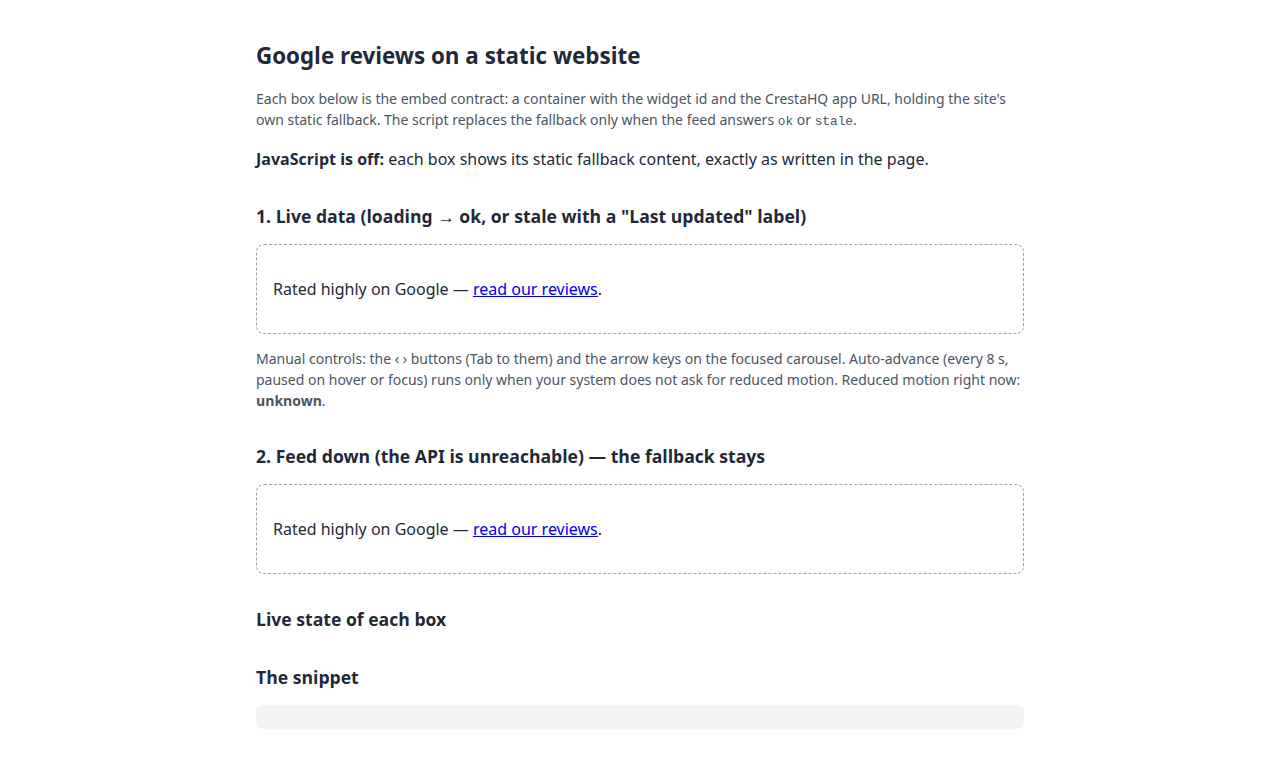
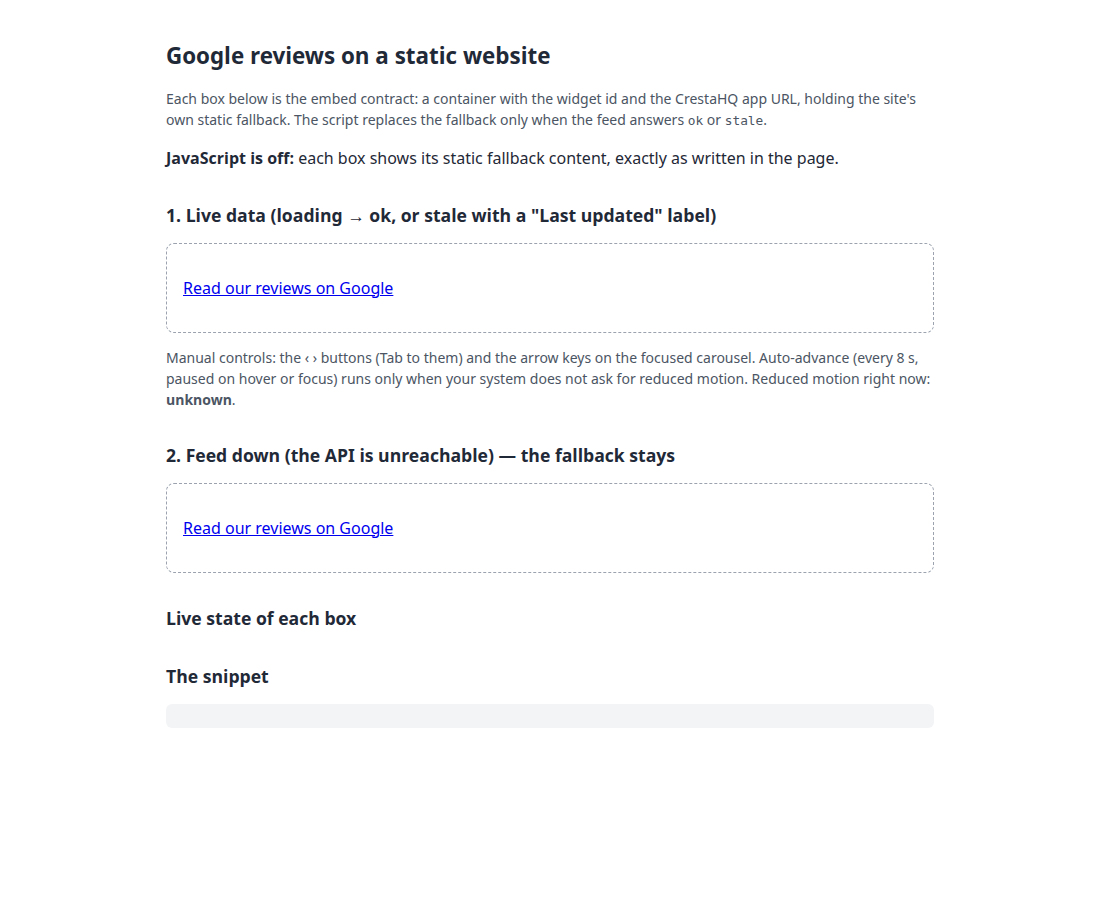
docs(gbp): fix-round contract, E2E 4 real-server cache checks, GIF proof
Docs: 60s cache and what acts at once (server) vs within a minute
(caches); the id-shape-first 404, the two-bucket limiter and its client
key; the scan memo; weak ETags and *; archived = disabled; anonymous
reviewers get no photo; writeReviewUri is Google's link and carries the
Place ID in its query; no-Origin requests get the full body (the allow-list
is browser-level); the WCAG 2.2.2 motion rules; the header-only state;
containers added after load keep their fallback; neutral fallback copy.

E2E 4 asserts Cache-Control, Vary and a 304 with the current ETag against
the real server, awaits the edited review past the 60s memo, and renders the
embed under reduced motion.

Proof: one GIF per browser flow plus refreshed screenshots, fixture data
only; the pre-fix devtools screenshot and the old flow-2 image are removed.

diff --git a/e2e/specs/gbp-public-feed.spec.ts b/e2e/specs/gbp-public-feed.spec.ts
@@ -24,6 +24,8 @@ import {
 test.skip(!!process.env.PLAYWRIGHT_BASE_URL, "needs GBP_PROVIDER=fake, which a deployed target refuses by design");
 
 gbpLifecycle(test);
+// The edited review is awaited past the feed's 60s review-scan memo.
+test.setTimeout(240_000);
 
 const VELO = "https://www.velocityfibre.co.za";
 const APP = "http://127.0.0.1:3100";
@@ -71,6 +73,12 @@ test("the public feed serves an allowed site, refuses others, leaks nothing and 
   expect(ok.headers()["access-control-allow-origin"]).toBe(VELO);
   // Next adds its own Vary values; ours must be among them.
   expect(ok.headers()["vary"].split(",").map((v) => v.trim())).toContain("Origin");
+  expect(ok.headers()["cache-control"]).toBe("public, max-age=60");
+  // A conditional request with the current ETag is a 304 from the real server, CORS intact.
+  const notModified = await request.get(feedPath(meta.publicId), { headers: { Origin: VELO, "If-None-Match": ok.headers()["etag"] } });
+  expect(notModified.status()).toBe(304);
+  expect(notModified.headers()["access-control-allow-origin"]).toBe(VELO);
+  expect(notModified.headers()["etag"]).toBe(ok.headers()["etag"]);
   const body = await ok.json();
   expect(body).toMatchObject({
     version: 1,
@@ -95,7 +103,8 @@ test("the public feed serves an allowed site, refuses others, leaks nothing and 
     expect(text, marker).not.toContain(marker);
   }
 
-  // --- A review edited at Google reaches the feed after a sync: new body, new ETag.
+  // --- A review edited at Google reaches the feed after a sync — within the
+  // feed's 60s review-scan memo — with a new ETag.
   const etag = ok.headers()["etag"];
   const edited = publicScenario();
   Object.assign(edited.reviews["locations/e2e-velo-gqeberha"].reviews[0], {
@@ -104,15 +113,19 @@ test("the public feed serves an allowed site, refuses others, leaks nothing and 
   });
   await setScenario(edited);
   await runCron(request);
+  await expect
+    .poll(async () => (await (await request.get(feedPath(meta.publicId))).json()).reviews[0].text, { timeout: 90_000, intervals: [5_000] })
+    .toBe("Fixture review: edited at Google after the first sync.");
   const after = await request.get(feedPath(meta.publicId), { headers: { Origin: VELO, "If-None-Match": etag } });
   expect(after.status()).toBe(200);
   expect(after.headers()["etag"]).not.toBe(etag);
-  expect((await after.json()).reviews[0].text).toBe("Fixture review: edited at Google after the first sync.");
 
   // --- The embed script, on a page of an allowed origin, renders the live data.
   sitePage =
     `<!doctype html><title>site</title><div id="w" data-crestahq-reviews="${meta.publicId}" data-api="${APP}"><p id="fallback">Rated on Google</p></div>` +
     `<script src="${APP}/embed/gbp-reviews.js" defer></script>`;
+  // Reduced motion, so auto-advance cannot move the carousel under the assertions.
+  await page.emulateMedia({ reducedMotion: "reduce" });
   await page.goto(`${EXAMPLE}/`);
   const widget = page.locator("#w");
   await expect(widget).toHaveAttribute("data-state", "ok", { timeout: 30_000 });

diff --git a/docs/features/gbp-reviews/example/index.html b/docs/features/gbp-reviews/example/index.html
@@ -36,7 +36,7 @@
   <div class="demo">
     <div id="live" data-crestahq-reviews="" data-api="http://127.0.0.1:3100">
       <!-- Static fallback: shown as-is with JavaScript off or when the feed is unavailable. -->
-      <p>Rated highly on Google — <a href="https://www.google.com/maps">read our reviews</a>.</p>
+      <p><a href="https://www.google.com/maps">Read our reviews on Google</a></p>
     </div>
   </div>
   <p class="note">
@@ -48,7 +48,7 @@
   <h2>2. Feed down (the API is unreachable) — the fallback stays</h2>
   <div class="demo">
     <div id="down" data-crestahq-reviews="" data-api="http://127.0.0.1:4409">
-      <p>Rated highly on Google — <a href="https://www.google.com/maps">read our reviews</a>.</p>
+      <p><a href="https://www.google.com/maps">Read our reviews on Google</a></p>
     </div>
   </div>
 
@@ -75,7 +75,7 @@
       document.getElementById("snippet").textContent =
         '<div data-crestahq-reviews="' + (id || "PUBLIC_ID") + '" data-api="' + api + '">\n' +
         "  <!-- static fallback -->\n" +
-        '  <p>Rated highly on Google — <a href="https://www.google.com/maps">read our reviews</a>.</p>\n' +
+        '  <p><a href="https://www.google.com/maps">Read our reviews on Google</a></p>\n' +
         "</div>\n" +
         '<script src="' + api + '/embed/gbp-reviews.js" defer></' + "script>";
 

diff --git a/docs/features/gbp-reviews.md b/docs/features/gbp-reviews.md
@@ -561,7 +561,8 @@ served like `/widget.js` (`next.config.ts`).
   `allowedOrigins`, `maxReviews`; anything else — `minRating` included — is a
   400 `invalid_body`, never silently ignored.
 - **Rotate** (`POST …/gbp/widget/rotate`) issues a new id with the same
-  config and deletes the old doc — the old id 404s at once. **Revoke**
+  config and deletes the old doc — the old id 404s on the server at once
+  (a cached copy may live up to a minute, see below). **Revoke**
   (`DELETE …/gbp/widget`) deletes the doc and clears the meta; it stays
   **ungated**, like disconnect, so a widget can always be taken down.
 - **Disconnect and listing clears** leave the widget config alone and the feed
@@ -569,7 +570,15 @@ served like `/widget.js` (`next.config.ts`).
   `unavailable` with `listing: null`, and resumes by itself once a listing is
   selected and synced again. (The widget belongs to the sub-account, so a
   newly selected listing is what it then shows.)
-- **Agency gate off** makes the feed answer the same 404 as a disabled widget.
+- **Agency gate off**, or an **archived** sub-account, makes the feed answer
+  the same 404 as a disabled widget.
+- **How fast changes land:** the widget doc and the sub-account are read on
+  every feed request, so revoke, rotate, disable, gate off and an origin
+  removal act on the server at once; only the review scan is memoised (60 s
+  per widget + listing, in memory). With `Cache-Control: public, max-age=60`
+  a browser or proxy may keep a copy for up to a minute — so config changes
+  and new syncs reach visitors within about a minute (the dashboard card says
+  so).
 
 ### Feed contract v1 — `GET /api/public/gbp/feed/{publicId}`
 
@@ -579,17 +588,23 @@ caller can send its own. Order: rate limit → resolve → origin → body.
 
 | Status | When | Body | Headers |
 |---|---|---|---|
-| 429 | more than 120 requests a minute for this IP + publicId (in-memory, per instance) | `{"error":"rate_limited"}` | `Retry-After`, `Cache-Control: no-store` |
-| 404 | malformed id (never reaches Firestore), unknown, disabled, rotated away, revoked, agency gate off | `{"error":"not_found"}` — byte-identical for all | `Cache-Control: no-store` |
+| 404 | malformed id — checked FIRST, so it never becomes a limiter key or a Firestore path | `{"error":"not_found"}` | `Cache-Control: no-store` |
+| 429 | more than 300 requests a minute from one client, or 120 for one client + publicId (in-memory, per instance; oldest keys evicted, never a wholesale reset). The client is `cf-connecting-ip`, else `x-real-ip`, else the left-most `X-Forwarded-For` | `{"error":"rate_limited"}` | `Retry-After`, `Cache-Control: no-store` |
+| 404 | unknown, disabled, rotated away, revoked, archived sub-account, agency gate off | `{"error":"not_found"}` — byte-identical to the malformed-id 404 | `Cache-Control: no-store` |
 | 403 | an `Origin` header not in `allowedOrigins` (incl. `null`) | `{"error":"origin_not_allowed"}` | no `Access-Control-Allow-Origin`, `no-store` |
-| 200 | otherwise | the body below | `Access-Control-Allow-Origin: <that origin>` only when an allowed Origin was sent (never `*`), `Vary: Origin`, `Cache-Control: public, max-age=300, stale-while-revalidate=600`, strong `ETag` |
-| 304 | `If-None-Match` lists the current ETag | empty | same as 200 |
+| 200 | otherwise | the body below | `Access-Control-Allow-Origin: <that origin>` only when an allowed Origin was sent (never `*`), `Vary: Origin`, `Cache-Control: public, max-age=60` (no stale-while-revalidate), strong `ETag` |
+| 304 | `If-None-Match` lists the current ETag (compared weakly — a `W/` prefix is ignored) or is `*` | empty | same as 200 |
 
 `OPTIONS` answers a preflight the same way (204 with ACAO +
 `Access-Control-Allow-Methods: GET, OPTIONS` for an allowed origin). Other
 methods are 405. The ETag is the sha256 of the body **without**
 `generatedAt`, so it is stable between syncs and changes with any review,
 reply, rating or freshness change.
+
+**The origin allow-list is browser-level protection, not access control.** A
+request with no `Origin` header (a server, `curl`) gets the full body — the
+feed holds only public Google review content, and the publicId is the only
+thing standing between it and anyone who has the snippet.
 
 ```json
 { "version": 1,
@@ -606,7 +621,11 @@ reply, rating or freshness change.
 ```
 
 - `listing` is null only when the sub-account no longer has a listing (then
-  `unavailable`). `writeReviewUri` is Google's `newReviewUri`.
+  `unavailable`). `writeReviewUri` is Google's `newReviewUri`, served as
+  Google gives it — Google's write-review link
+  (`https://search.google.com/local/writereview?placeid=…`) carries the
+  listing's Place ID in its query. That is Google's own public link; the Place
+  ID is never served anywhere else.
 - `reviews`: `state == "active"` of the current listing, not past the sync's
   own read-time 30-day predicate (`withinRetention`), newest first by
   `createTime`, ties by `id`, first `maxReviews`. **Every rating** — there is no
@@ -614,7 +633,7 @@ reply, rating or freshness change.
   `starRating >= 4` filter turns the feed tests red). `text` is Google's
   comment byte-exact, including the "(Translated by Google) … (Original) …"
   block. Anonymous reviewers keep Google's (empty) name with
-  `anonymous: true`. The newest 200 cache records are scanned per request (one
+  `anonymous: true` and never get a photo (`photoUrl: null`). The newest 200 cache records are scanned per request (one
   single-field query, no composite index); in a cache full of tombstones the
   feed may hold fewer than `maxReviews` — never an invented one.
 - `rating` comes only from the last successful sync's summary, and only when
@@ -622,7 +641,8 @@ reply, rating or freshness change.
   null`, `reviews: []`).
 - **Never included** — an explicit allow-list serializer
   (`lib/gbp/feed/serialize.ts`), never a spread: review / account / location
-  resource names, Place ID, agency / sub-account ids, uids, emails, passId,
+  resource names, the Place ID as a field (it appears only inside Google's
+  `writeReviewUri`, above), agency / sub-account ids, uids, emails, passId,
   contentHash, tokens, run diagnostics, error kinds.
 
 **Freshness** (constants in `lib/gbp/feed/build.ts` and PR 2's `sync/types.ts`):
@@ -643,26 +663,37 @@ for the Velocity site (the dashboard card prints this with the real id):
 ```html
 <div data-crestahq-reviews="PUBLIC_ID" data-api="https://crm.crestahq.com">
   <!-- static fallback: rendered as-is with JS off or when the feed fails -->
-  <p>Rated 4.8 on Google — <a href="https://maps.google.com/?cid=…">read our reviews</a></p>
+  <p><a href="https://maps.google.com/?cid=…">Read our reviews on Google</a></p>
 </div>
 <script src="https://crm.crestahq.com/embed/gbp-reviews.js" defer></script>
 ```
 
 - `data-state="loading"` while fetching — the fallback stays visible; the
   request carries no cookies (`credentials: "omit"`).
-- `ok` / `stale` → the fallback is replaced by: listing title, average + count,
-  "Reviews from Google" linking to `mapsUri`, "Last updated <date>" when stale,
-  and a carousel. `data-state` is then `ok` or `stale`.
+- `ok` / `stale` → the fallback is replaced by: listing title, average
+  (rounded to one decimal) + count, "Reviews from Google" linking to
+  `mapsUri`, "Last updated <date>" when stale, and a carousel. `data-state` is
+  then `ok` or `stale`. With a count but no reviews in the served window (e.g.
+  all older than 30 days) only the header and attribution show — never "no
+  reviews" under a count that says otherwise.
 - `unavailable`, any non-2xx, a network error, a body that is not JSON or an
   unknown `version` → the fallback is left untouched, `data-state="fallback"`.
 - Feed data reaches the page through `textContent` only (never `innerHTML`);
   only `http(s)` links from the feed are made clickable.
 - Carousel: labelled `‹` / `›` `<button>`s ("Previous review" / "Next
   review"), arrow keys on the focusable region, `aria-roledescription`
-  carousel / slide. Auto-advance only when `prefers-reduced-motion` is not
-  `reduce`, every 8 s, paused while hovered or focused; per the WAI carousel
-  pattern `aria-live` is `off` while it rotates on its own and `polite`
-  otherwise.
+  carousel / slide.
+- Motion (WCAG 2.2.2): auto-advance only while `prefers-reduced-motion` is
+  not `reduce` — watched live, so turning it on stops rotation, and turning it
+  off restarts it only if the visitor never interacted; every 8 s; paused
+  while hovered or focused; a labelled pause/play button ("Pause automatic
+  rotation" / "Start automatic rotation"); any use of prev/next or the arrow
+  keys stops rotation for good. The timer clears itself once the widget has
+  left the page. Per the WAI carousel pattern `aria-live` is `off` while it
+  rotates on its own and `polite` otherwise.
+- **Limitation:** containers are found once, when the script runs. A
+  container added to the page later (e.g. by a client-side router) keeps its
+  static fallback.
 - CSS is injected once, namespaced `.chq-reviews…`; the site can override it.
 
 Integration example (loading, live, stale label, feed-down fallback, no-JS
@@ -675,23 +706,20 @@ http.server 4401`), allow `http://127.0.0.1:4401` on the widget, open
 
 ### Browser proof (PR 3)
 
-`proof/pr3-*.png`, fixture data only, the production build on 127.0.0.1:3100
-and the example page on 127.0.0.1:4401 (Playwright-driven Chromium, plus one
-chrome-devtools MCP capture):
+`proof/pr3-*`, fixture data only: the production build on 127.0.0.1:3100 and
+the example page served from a second origin, 127.0.0.1:4401, driven in
+Chromium by a Playwright proof script (one recorded video per flow, converted
+to GIF with ffmpeg). Re-run after review fix round 1, so every image shows the
+current embed (pause/play button, neutral fallback copy).
 
-| File | Shows |
-|---|---|
-| `pr3-00-dashboard-widget-card.png` | the dashboard card: origins, snippet with the real id, feed URL, Rotate / Revoke |
-| `pr3-01-live-and-feed-down.png` | live data on an allowed second origin; box 2 (unreachable API) keeps its fallback |
-| `pr3-02-auto-advance-then-manual-next.png` | auto-advanced to 2/7 after 8 s, then ‹ › by hand to 3/7 |
-| `pr3-03-reduced-motion-keyboard.png` | `prefers-reduced-motion: reduce`: still 1/7 after 9 s, arrow key → 2/7 |
-| `pr3-04-javascript-off.png` | JavaScript disabled: the `<noscript>` note and the static fallbacks |
-| `pr3-05-origin-removed-fallback.png` | the origin removed from the widget: the browser is refused (console: no `Access-Control-Allow-Origin`), the fallback stays |
-| `pr3-06-stale-after-revoke.png` | after a revoked-grant sync: cached reviews with "Last updated Sep 11, 2026" |
-| `pr3-07-devtools-stale-manual-next.png` | chrome-devtools MCP: the stale feed, driven by hand (the translated review verbatim) |
-
-(`pr3-01`'s feed-down box pointed at port 9, which Chrome blocks as unsafe;
-the example now uses an unused port, 4409 — the same fallback path.)
+| Flow | GIF | Screenshot |
+|---|---|---|
+| Dashboard card (origins, snippet with the real id, feed URL, Rotate / Revoke) → live data on the allowed 4401 origin; the unreachable-API box keeps its fallback | `pr3-flow1-widget-card-to-live.gif` | `pr3-00-dashboard-widget-card.png`, `pr3-01-live-and-feed-down.png` |
+| Auto-advance after 8 s → Pause (label flips, nothing moves for 9 s) → Play → manual Next, after which rotation stays stopped | `pr3-flow2-autoadvance-pause-play-next.gif` | `pr3-02-autoadvance-pause-play-next.png` |
+| `prefers-reduced-motion: reduce`: no toggle, still 1/7 after 9 s, arrow keys move it | `pr3-flow3-reduced-motion-keyboard.gif` | `pr3-03-reduced-motion-keyboard.png` |
+| JavaScript disabled: the `<noscript>` note and the static fallbacks | `pr3-flow4-javascript-off.gif` | `pr3-04-javascript-off.png` |
+| The origin removed from the widget: the browser is refused (console: no `Access-Control-Allow-Origin`), the fallback stays | `pr3-flow5-origin-removed-fallback.gif` | `pr3-05-origin-removed-fallback.png` |
+| After a revoked-grant sync: the cached reviews with "Last updated <date>" | `pr3-flow6-stale-after-revoke.gif` | `pr3-06-stale-after-revoke.png` |
 
 ### Google policy and attribution
 
